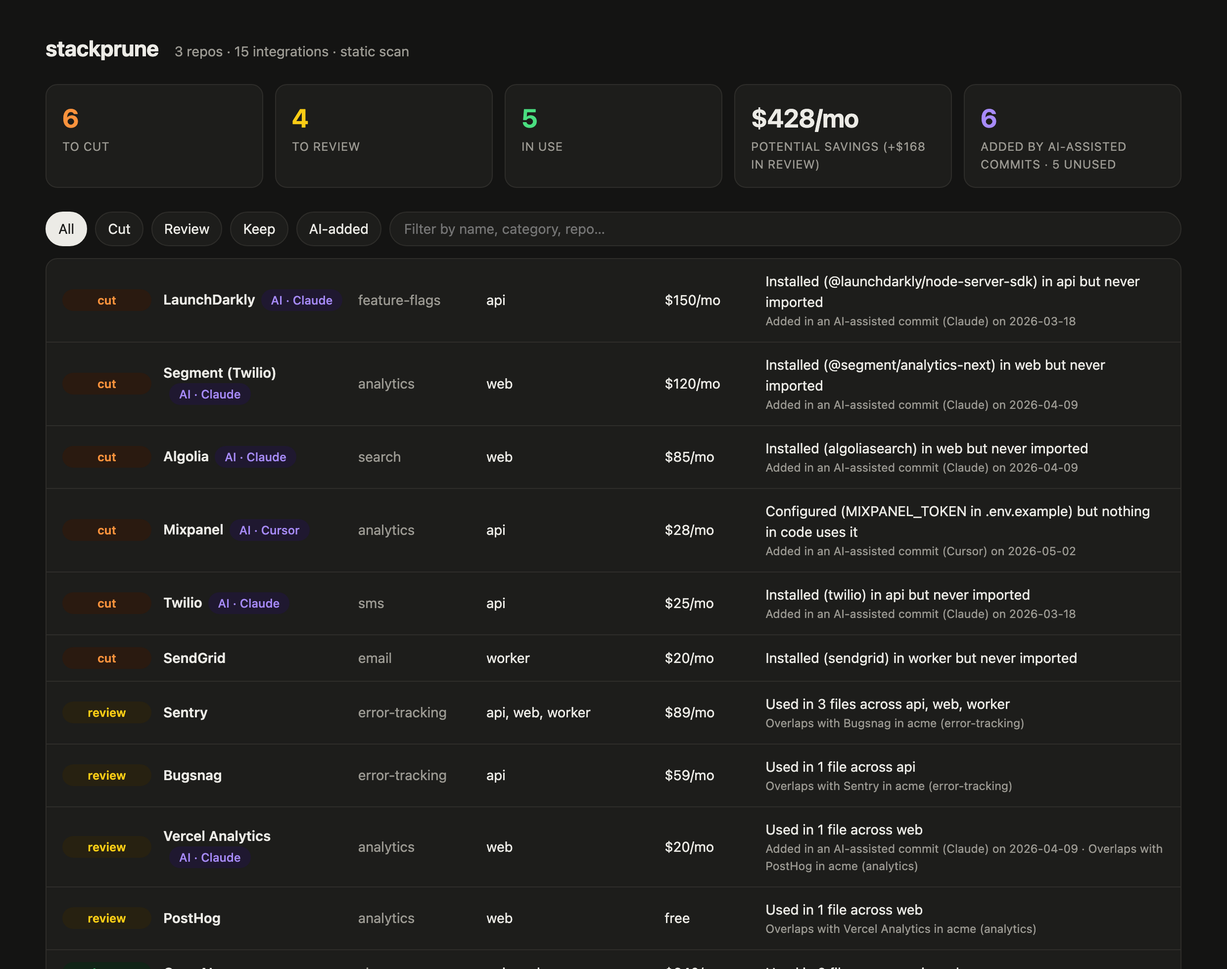
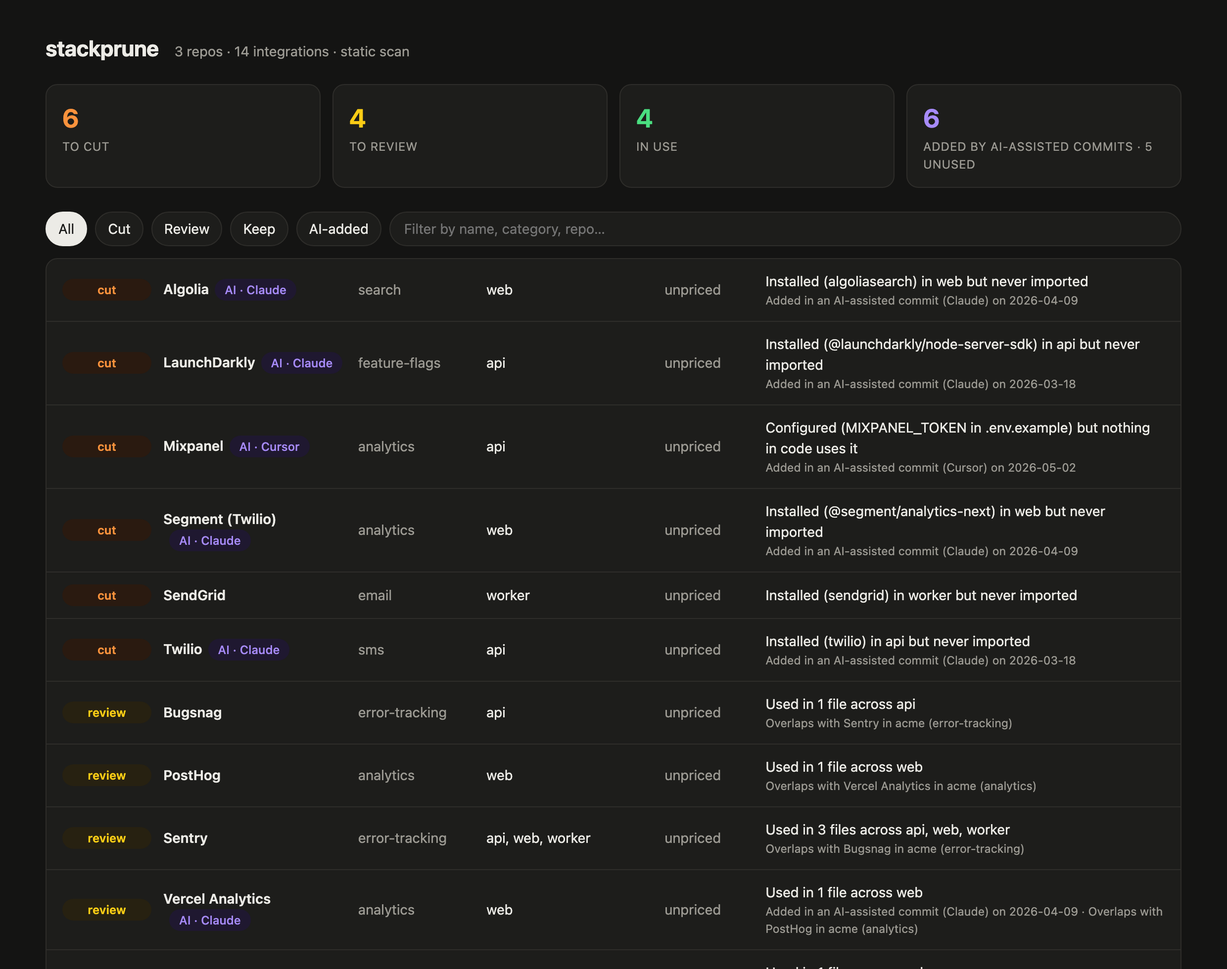
Add apps config, map/localization vendors, quieter overlap rules
- `apps:` in stackprune.yml names apps and their repos; running with no
  paths audits all of them and judges overlap per app
- Catalog: MapTiler, CARTO, OpenFreeMap, OSM Nominatim/tiles, OSRM demo,
  Photon, six localization platforms, MUI X licenses (221 vendors)
- Overlap only escalates paid vendors to review; reasons list overlaps
  per app

diff --git a/examples/demo-report.html b/examples/demo-report.html
@@ -66,7 +66,7 @@ footer a{color:inherit}
 <section id="unknown"></section>
 <footer>Generated by <a href="https://github.com/YlldritQ/stackprune">stackprune</a> · <span id="gen"></span></footer>
 </main>
-<script id="data" type="application/json">{"generatedAt":"2026-11-16T16:59:42.742Z","currency":"USD","targets":[{"name":"api","group":"acme","files":7},{"name":"web","group":"acme","files":6},{"name":"worker","group":"acme","files":2}],"summary":{"total":15,"byVerdict":{"cut":6,"review":4,"keep":5},"savingsCut":428,"savingsReview":168,"unpricedPaid":1,"aiIntroduced":6,"aiIntroducedUnused":5,"overlaps":4},"unknownHosts":[],"integrations":[{"id":"launchdarkly","name":"LaunchDarkly","category":"feature-flags","url":"https://launchdarkly.com/pricing/","paid":true,"status":"unused","verdict":"cut","reasons":["Installed (@launchdarkly/node-server-sdk) in api but never imported","Added in an AI-assisted commit (Claude) on 2026-03-18"],"cost":{"monthly":150},"codeFiles":0,"removalFiles":2,"ai":"Claude","introducedAt":"2026-03-18T22:14:00Z","lastTouchedAt":"2026-03-18T22:14:00Z","targets":["api"],"evidence":[{"t":"api","k":"env-declared","f":".env.example","l":6,"d":"LAUNCHDARKLY_SDK_KEY","dev":false},{"t":"api","k":"manifest","f":"package.json","l":5,"d":"@launchdarkly/node-server-sdk","dev":false}]},{"id":"segment","name":"Segment (Twilio)","category":"analytics","url":"https://segment.com/pricing/","paid":true,"status":"unused","verdict":"cut","reasons":["Installed (@segment/analytics-next) in web but never imported","Added in an AI-assisted commit (Claude) on 2026-04-09"],"cost":{"monthly":120},"codeFiles":0,"removalFiles":1,"ai":"Claude","introducedAt":"2026-04-09T23:05:00Z","lastTouchedAt":"2026-04-09T23:05:00Z","targets":["web"],"evidence":[{"t":"web","k":"manifest","f":"package.json","l":5,"d":"@segment/analytics-next","dev":false}]},{"id":"algolia","name":"Algolia","category":"search","url":"https://www.algolia.com/pricing/","paid":true,"status":"unused","verdict":"cut","reasons":["Installed (algoliasearch) in web but never imported","Added in an AI-assisted commit (Claude) on 2026-04-09"],"cost":{"monthly":85},"codeFiles":0,"removalFiles":2,"ai":"Claude","introducedAt":"2026-04-09T23:05:00Z","lastTouchedAt":"2026-04-09T23:05:00Z","targets":["web"],"evidence":[{"t":"web","k":"env-declared","f":".env.example","l":3,"d":"NEXT_PUBLIC_ALGOLIA_APP_ID","dev":false},{"t":"web","k":"env-declared","f":".env.example","l":4,"d":"NEXT_PUBLIC_ALGOLIA_SEARCH_KEY","dev":false},{"t":"web","k":"manifest","f":"package.json","l":5,"d":"algoliasearch","dev":false}]},{"id":"mixpanel","name":"Mixpanel","category":"analytics","url":"https://mixpanel.com/pricing/","paid":true,"status":"config-only","verdict":"cut","reasons":["Configured (MIXPANEL_TOKEN in .env.example) but nothing in code uses it","Added in an AI-assisted commit (Cursor) on 2026-05-02"],"cost":{"monthly":28},"codeFiles":0,"removalFiles":1,"ai":"Cursor","introducedAt":"2026-05-02T01:40:00Z","targets":["api"],"evidence":[{"t":"api","k":"env-declared","f":".env.example","l":7,"d":"MIXPANEL_TOKEN","dev":false}]},{"id":"twilio","name":"Twilio","category":"sms","url":"https://www.twilio.com/en-us/pricing","paid":true,"status":"unused","verdict":"cut","reasons":["Installed (twilio) in api but never imported","Added in an AI-assisted commit (Claude) on 2026-03-18"],"cost":{"monthly":25},"codeFiles":0,"removalFiles":2,"ai":"Claude","introducedAt":"2026-03-18T22:14:00Z","lastTouchedAt":"2026-03-18T22:14:00Z","targets":["api"],"evidence":[{"t":"api","k":"env-declared","f":".env.example","l":4,"d":"TWILIO_ACCOUNT_SID","dev":false},{"t":"api","k":"env-declared","f":".env.example","l":5,"d":"TWILIO_AUTH_TOKEN","dev":false},{"t":"api","k":"manifest","f":"package.json","l":5,"d":"twilio","dev":false}]},{"id":"sendgrid","name":"SendGrid","category":"email","url":"https://sendgrid.com/pricing/","paid":true,"status":"unused","verdict":"cut","reasons":["Installed (sendgrid) in worker but never imported"],"cost":{"monthly":20},"codeFiles":0,"removalFiles":1,"introducedAt":"2024-11-20T11:00:00Z","lastTouchedAt":"2024-11-20T11:00:00Z","targets":["worker"],"evidence":[{"t":"worker","k":"manifest","f":"requirements.txt","l":4,"d":"sendgrid","dev":false}]},{"id":"sentry","name":"Sentry","category":"error-tracking","url":"https://sentry.io/pricing/","paid":true,"status":"active","verdict":"review","reasons":["Used in 3 files across api, web, worker","Overlaps with Bugsnag in acme (error-tracking)"],"cost":{"monthly":89},"owner":"platform","codeFiles":3,"removalFiles":7,"introducedAt":"2024-11-20T11:00:00Z","lastTouchedAt":"2026-04-09T23:05:00Z","targets":["api","web","worker"],"evidence":[{"t":"api","k":"env-declared","f":".env.example","l":2,"d":"SENTRY_DSN","dev":false},{"t":"api","k":"manifest","f":"package.json","l":5,"d":"@sentry/node","dev":false},{"t":"api","k":"import","f":"src/errors.ts","l":1,"d":"@sentry/node","dev":false},{"t":"api","k":"env-referenced","f":"src/errors.ts","l":2,"d":"SENTRY_DSN","dev":false},{"t":"web","k":"import","f":"app/sentry.client.config.ts","l":1,"d":"@sentry/nextjs","dev":false},{"t":"web","k":"env-referenced","f":"app/sentry.client.config.ts","l":2,"d":"NEXT_PUBLIC_SENTRY_DSN","dev":false},{"t":"web","k":"manifest","f":"package.json","l":5,"d":"@sentry/nextjs","dev":false},{"t":"worker","k":"import","f":"jobs/reports.py","l":1,"d":"sentry_sdk","dev":false},{"t":"worker","k":"manifest","f":"requirements.txt","l":1,"d":"sentry-sdk","dev":false}]},{"id":"bugsnag","name":"Bugsnag","category":"error-tracking","url":"https://www.bugsnag.com/pricing","paid":true,"status":"active","verdict":"review","reasons":["Used in 1 file across api","Overlaps with Sentry in acme (error-tracking)"],"cost":{"monthly":59},"owner":"mobile","codeFiles":1,"removalFiles":2,"introducedAt":"2025-06-12T15:30:00Z","lastTouchedAt":"2026-03-18T22:14:00Z","targets":["api"],"evidence":[{"t":"api","k":"manifest","f":"package.json","l":5,"d":"@bugsnag/js","dev":false},{"t":"api","k":"import","f":"src/bugsnag.ts","l":1,"d":"@bugsnag/js","dev":false},{"t":"api","k":"env-referenced","f":"src/bugsnag.ts","l":2,"d":"BUGSNAG_API_KEY","dev":false}]},{"id":"vercel-analytics","name":"Vercel Analytics","category":"analytics","url":"https://vercel.com/docs/analytics/limits-and-pricing","paid":true,"status":"active","verdict":"review","reasons":["Used in 1 file across web","Added in an AI-assisted commit (Claude) on 2026-04-09","Overlaps with PostHog in acme (analytics)"],"cost":{"monthly":20},"codeFiles":1,"removalFiles":2,"ai":"Claude","introducedAt":"2026-04-09T23:05:00Z","lastTouchedAt":"2026-04-09T23:05:00Z","targets":["web"],"evidence":[{"t":"web","k":"import","f":"app/layout.tsx","l":1,"d":"@vercel/analytics/react","dev":false},{"t":"web","k":"manifest","f":"package.json","l":5,"d":"@vercel/analytics","dev":false}]},{"id":"posthog","name":"PostHog","category":"analytics","url":"https://posthog.com/pricing","paid":true,"status":"active","verdict":"review","reasons":["Used in 1 file across web","Overlaps with Vercel Analytics in acme (analytics)"],"cost":{"monthly":0},"owner":"growth","codeFiles":1,"removalFiles":3,"introducedAt":"2025-02-10T09:00:00Z","lastTouchedAt":"2026-04-09T23:05:00Z","targets":["web"],"evidence":[{"t":"web","k":"env-declared","f":".env.example","l":2,"d":"NEXT_PUBLIC_POSTHOG_KEY","dev":false},{"t":"web","k":"import","f":"app/analytics.tsx","l":1,"d":"posthog-js","dev":false},{"t":"web","k":"env-referenced","f":"app/analytics.tsx","l":2,"d":"NEXT_PUBLIC_POSTHOG_KEY","dev":false},{"t":"web","k":"host","f":"app/analytics.tsx","l":2,"d":"eu.i.posthog.com","dev":false},{"t":"web","k":"manifest","f":"package.json","l":5,"d":"posthog-js","dev":false}]},{"id":"openai","name":"OpenAI","category":"ai","url":"https://openai.com/api/pricing/","paid":true,"status":"active","verdict":"keep","reasons":["Used in 2 files across api, worker"],"cost":{"monthly":640},"owner":"ai-team","codeFiles":2,"removalFiles":5,"introducedAt":"2024-11-20T11:00:00Z","lastTouchedAt":"2026-03-18T22:14:00Z","targets":["api","worker"],"evidence":[{"t":"api","k":"env-declared","f":".env.example","l":3,"d":"OPENAI_API_KEY","dev":false},{"t":"api","k":"manifest","f":"package.json","l":5,"d":"openai","dev":false},{"t":"api","k":"import","f":"src/summaries.ts","l":1,"d":"openai","dev":false},{"t":"worker","k":"import","f":"jobs/reports.py","l":2,"d":"openai","dev":false},{"t":"worker","k":"import","f":"jobs/reports.py","l":2,"d":"openai.OpenAI","dev":false},{"t":"worker","k":"manifest","f":"requirements.txt","l":2,"d":"openai","dev":false}]},{"id":"stripe","name":"Stripe","category":"payments","url":"https://stripe.com/pricing","paid":true,"status":"active","verdict":"keep","reasons":["Used in 2 files across api, web"],"cost":{"monthly":420},"owner":"payments","purpose":"Checkout and subscriptions","codeFiles":2,"removalFiles":6,"introducedAt":"2025-02-03T10:00:00Z","lastTouchedAt":"2026-04-09T23:05:00Z","targets":["api","web"],"evidence":[{"t":"api","k":"env-declared","f":".env.example","l":1,"d":"STRIPE_SECRET_KEY","dev":false},{"t":"api","k":"manifest","f":"package.json","l":5,"d":"stripe","dev":false},{"t":"api","k":"import","f":"src/billing.ts","l":1,"d":"stripe","dev":false},{"t":"api","k":"env-referenced","f":"src/billing.ts","l":2,"d":"STRIPE_SECRET_KEY","dev":false},{"t":"web","k":"env-declared","f":".env.example","l":1,"d":"NEXT_PUBLIC_STRIPE_PUBLISHABLE_KEY","dev":false},{"t":"web","k":"import","f":"app/checkout.tsx","l":1,"d":"@stripe/stripe-js","dev":false},{"t":"web","k":"env-referenced","f":"app/checkout.tsx","l":2,"d":"NEXT_PUBLIC_STRIPE_PUBLISHABLE_KEY","dev":false},{"t":"web","k":"manifest","f":"package.json","l":5,"d":"@stripe/stripe-js","dev":false}]},{"id":"datadog","name":"Datadog","category":"apm","url":"https://www.datadoghq.com/pricing/","paid":true,"status":"active","verdict":"keep","reasons":["Used in 1 file across api"],"cost":{"monthly":310},"owner":"platform","codeFiles":1,"removalFiles":1,"introducedAt":"2025-02-03T10:00:00Z","lastTouchedAt":"2026-03-18T22:14:00Z","targets":["api"],"evidence":[{"t":"api","k":"manifest","f":"package.json","l":5,"d":"dd-trace","dev":false},{"t":"api","k":"import","f":"package.json","d":"dd-trace (script)","dev":false}]},{"id":"aws-s3","name":"AWS S3","category":"storage","url":"https://aws.amazon.com/s3/pricing/","paid":true,"status":"active","verdict":"keep","reasons":["Used in 1 file across worker","Code using it untouched for 726 days"],"cost":{"monthly":14},"owner":"platform","codeFiles":1,"removalFiles":1,"introducedAt":"2024-11-20T11:00:00Z","lastTouchedAt":"2024-11-20T11:00:00Z","targets":["worker"],"evidence":[{"t":"worker","k":"import","f":"jobs/reports.py","l":6,"d":"boto3.client(\"s3\")","dev":false}]},{"id":"parcelpartner","name":"ParcelPartner","category":"other","paid":true,"status":"active","verdict":"keep","reasons":["Used in 1 file across api","Code using it untouched for 651 days"],"codeFiles":1,"removalFiles":1,"introducedAt":"2025-02-03T10:00:00Z","lastTouchedAt":"2025-02-03T10:00:00Z","targets":["api"],"evidence":[{"t":"api","k":"host","f":"src/shipping.ts","l":1,"d":"api.parcelpartner.io","dev":false}]}]}</script>
+<script id="data" type="application/json">{"generatedAt":"2026-11-16T17:03:27.066Z","currency":"USD","targets":[{"name":"api","group":"acme","files":7},{"name":"web","group":"acme","files":6},{"name":"worker","group":"acme","files":2}],"summary":{"total":14,"byVerdict":{"cut":6,"review":4,"keep":4},"savingsCut":0,"savingsReview":0,"unpricedPaid":14,"aiIntroduced":6,"aiIntroducedUnused":5,"overlaps":4},"unknownHosts":[{"domain":"parcelpartner.io","hosts":["api.parcelpartner.io"],"files":1,"targets":["api"]}],"integrations":[{"id":"algolia","name":"Algolia","category":"search","url":"https://www.algolia.com/pricing/","paid":true,"status":"unused","verdict":"cut","reasons":["Installed (algoliasearch) in web but never imported","Added in an AI-assisted commit (Claude) on 2026-04-09"],"codeFiles":0,"removalFiles":2,"ai":"Claude","introducedAt":"2026-04-09T23:05:00Z","lastTouchedAt":"2026-04-09T23:05:00Z","targets":["web"],"evidence":[{"t":"web","k":"env-declared","f":".env.example","l":3,"d":"NEXT_PUBLIC_ALGOLIA_APP_ID","dev":false},{"t":"web","k":"env-declared","f":".env.example","l":4,"d":"NEXT_PUBLIC_ALGOLIA_SEARCH_KEY","dev":false},{"t":"web","k":"manifest","f":"package.json","l":5,"d":"algoliasearch","dev":false}]},{"id":"launchdarkly","name":"LaunchDarkly","category":"feature-flags","url":"https://launchdarkly.com/pricing/","paid":true,"status":"unused","verdict":"cut","reasons":["Installed (@launchdarkly/node-server-sdk) in api but never imported","Added in an AI-assisted commit (Claude) on 2026-03-18"],"codeFiles":0,"removalFiles":2,"ai":"Claude","introducedAt":"2026-03-18T22:14:00Z","lastTouchedAt":"2026-03-18T22:14:00Z","targets":["api"],"evidence":[{"t":"api","k":"env-declared","f":".env.example","l":6,"d":"LAUNCHDARKLY_SDK_KEY","dev":false},{"t":"api","k":"manifest","f":"package.json","l":5,"d":"@launchdarkly/node-server-sdk","dev":false}]},{"id":"mixpanel","name":"Mixpanel","category":"analytics","url":"https://mixpanel.com/pricing/","paid":true,"status":"config-only","verdict":"cut","reasons":["Configured (MIXPANEL_TOKEN in .env.example) but nothing in code uses it","Added in an AI-assisted commit (Cursor) on 2026-05-02"],"codeFiles":0,"removalFiles":1,"ai":"Cursor","introducedAt":"2026-05-02T01:40:00Z","targets":["api"],"evidence":[{"t":"api","k":"env-declared","f":".env.example","l":7,"d":"MIXPANEL_TOKEN","dev":false}]},{"id":"segment","name":"Segment (Twilio)","category":"analytics","url":"https://segment.com/pricing/","paid":true,"status":"unused","verdict":"cut","reasons":["Installed (@segment/analytics-next) in web but never imported","Added in an AI-assisted commit (Claude) on 2026-04-09"],"codeFiles":0,"removalFiles":1,"ai":"Claude","introducedAt":"2026-04-09T23:05:00Z","lastTouchedAt":"2026-04-09T23:05:00Z","targets":["web"],"evidence":[{"t":"web","k":"manifest","f":"package.json","l":5,"d":"@segment/analytics-next","dev":false}]},{"id":"sendgrid","name":"SendGrid","category":"email","url":"https://sendgrid.com/pricing/","paid":true,"status":"unused","verdict":"cut","reasons":["Installed (sendgrid) in worker but never imported"],"codeFiles":0,"removalFiles":1,"introducedAt":"2024-11-20T11:00:00Z","lastTouchedAt":"2024-11-20T11:00:00Z","targets":["worker"],"evidence":[{"t":"worker","k":"manifest","f":"requirements.txt","l":4,"d":"sendgrid","dev":false}]},{"id":"twilio","name":"Twilio","category":"sms","url":"https://www.twilio.com/en-us/pricing","paid":true,"status":"unused","verdict":"cut","reasons":["Installed (twilio) in api but never imported","Added in an AI-assisted commit (Claude) on 2026-03-18"],"codeFiles":0,"removalFiles":2,"ai":"Claude","introducedAt":"2026-03-18T22:14:00Z","lastTouchedAt":"2026-03-18T22:14:00Z","targets":["api"],"evidence":[{"t":"api","k":"env-declared","f":".env.example","l":4,"d":"TWILIO_ACCOUNT_SID","dev":false},{"t":"api","k":"env-declared","f":".env.example","l":5,"d":"TWILIO_AUTH_TOKEN","dev":false},{"t":"api","k":"manifest","f":"package.json","l":5,"d":"twilio","dev":false}]},{"id":"bugsnag","name":"Bugsnag","category":"error-tracking","url":"https://www.bugsnag.com/pricing","paid":true,"status":"active","verdict":"review","reasons":["Used in 1 file across api","Overlaps with Sentry in acme (error-tracking)"],"codeFiles":1,"removalFiles":2,"introducedAt":"2025-06-12T15:30:00Z","lastTouchedAt":"2026-03-18T22:14:00Z","targets":["api"],"evidence":[{"t":"api","k":"manifest","f":"package.json","l":5,"d":"@bugsnag/js","dev":false},{"t":"api","k":"import","f":"src/bugsnag.ts","l":1,"d":"@bugsnag/js","dev":false},{"t":"api","k":"env-referenced","f":"src/bugsnag.ts","l":2,"d":"BUGSNAG_API_KEY","dev":false}]},{"id":"posthog","name":"PostHog","category":"analytics","url":"https://posthog.com/pricing","paid":true,"status":"active","verdict":"review","reasons":["Used in 1 file across web","Overlaps with Vercel Analytics in acme (analytics)"],"codeFiles":1,"removalFiles":3,"introducedAt":"2025-02-10T09:00:00Z","lastTouchedAt":"2026-04-09T23:05:00Z","targets":["web"],"evidence":[{"t":"web","k":"env-declared","f":".env.example","l":2,"d":"NEXT_PUBLIC_POSTHOG_KEY","dev":false},{"t":"web","k":"import","f":"app/analytics.tsx","l":1,"d":"posthog-js","dev":false},{"t":"web","k":"env-referenced","f":"app/analytics.tsx","l":2,"d":"NEXT_PUBLIC_POSTHOG_KEY","dev":false},{"t":"web","k":"host","f":"app/analytics.tsx","l":2,"d":"eu.i.posthog.com","dev":false},{"t":"web","k":"manifest","f":"package.json","l":5,"d":"posthog-js","dev":false}]},{"id":"sentry","name":"Sentry","category":"error-tracking","url":"https://sentry.io/pricing/","paid":true,"status":"active","verdict":"review","reasons":["Used in 3 files across api, web, worker","Overlaps with Bugsnag in acme (error-tracking)"],"codeFiles":3,"removalFiles":7,"introducedAt":"2024-11-20T11:00:00Z","lastTouchedAt":"2026-04-09T23:05:00Z","targets":["api","web","worker"],"evidence":[{"t":"api","k":"env-declared","f":".env.example","l":2,"d":"SENTRY_DSN","dev":false},{"t":"api","k":"manifest","f":"package.json","l":5,"d":"@sentry/node","dev":false},{"t":"api","k":"import","f":"src/errors.ts","l":1,"d":"@sentry/node","dev":false},{"t":"api","k":"env-referenced","f":"src/errors.ts","l":2,"d":"SENTRY_DSN","dev":false},{"t":"web","k":"import","f":"app/sentry.client.config.ts","l":1,"d":"@sentry/nextjs","dev":false},{"t":"web","k":"env-referenced","f":"app/sentry.client.config.ts","l":2,"d":"NEXT_PUBLIC_SENTRY_DSN","dev":false},{"t":"web","k":"manifest","f":"package.json","l":5,"d":"@sentry/nextjs","dev":false},{"t":"worker","k":"import","f":"jobs/reports.py","l":1,"d":"sentry_sdk","dev":false},{"t":"worker","k":"manifest","f":"requirements.txt","l":1,"d":"sentry-sdk","dev":false}]},{"id":"vercel-analytics","name":"Vercel Analytics","category":"analytics","url":"https://vercel.com/docs/analytics/limits-and-pricing","paid":true,"status":"active","verdict":"review","reasons":["Used in 1 file across web","Added in an AI-assisted commit (Claude) on 2026-04-09","Overlaps with PostHog in acme (analytics)"],"codeFiles":1,"removalFiles":2,"ai":"Claude","introducedAt":"2026-04-09T23:05:00Z","lastTouchedAt":"2026-04-09T23:05:00Z","targets":["web"],"evidence":[{"t":"web","k":"import","f":"app/layout.tsx","l":1,"d":"@vercel/analytics/react","dev":false},{"t":"web","k":"manifest","f":"package.json","l":5,"d":"@vercel/analytics","dev":false}]},{"id":"aws-s3","name":"AWS S3","category":"storage","url":"https://aws.amazon.com/s3/pricing/","paid":true,"status":"active","verdict":"keep","reasons":["Used in 1 file across worker","Code using it untouched for 726 days"],"codeFiles":1,"removalFiles":1,"introducedAt":"2024-11-20T11:00:00Z","lastTouchedAt":"2024-11-20T11:00:00Z","targets":["worker"],"evidence":[{"t":"worker","k":"import","f":"jobs/reports.py","l":6,"d":"boto3.client(\"s3\")","dev":false}]},{"id":"datadog","name":"Datadog","category":"apm","url":"https://www.datadoghq.com/pricing/","paid":true,"status":"active","verdict":"keep","reasons":["Used in 1 file across api"],"codeFiles":1,"removalFiles":1,"introducedAt":"2025-02-03T10:00:00Z","lastTouchedAt":"2026-03-18T22:14:00Z","targets":["api"],"evidence":[{"t":"api","k":"manifest","f":"package.json","l":5,"d":"dd-trace","dev":false},{"t":"api","k":"import","f":"package.json","d":"dd-trace (script)","dev":false}]},{"id":"openai","name":"OpenAI","category":"ai","url":"https://openai.com/api/pricing/","paid":true,"status":"active","verdict":"keep","reasons":["Used in 2 files across api, worker"],"codeFiles":2,"removalFiles":5,"introducedAt":"2024-11-20T11:00:00Z","lastTouchedAt":"2026-03-18T22:14:00Z","targets":["api","worker"],"evidence":[{"t":"api","k":"env-declared","f":".env.example","l":3,"d":"OPENAI_API_KEY","dev":false},{"t":"api","k":"manifest","f":"package.json","l":5,"d":"openai","dev":false},{"t":"api","k":"import","f":"src/summaries.ts","l":1,"d":"openai","dev":false},{"t":"worker","k":"import","f":"jobs/reports.py","l":2,"d":"openai","dev":false},{"t":"worker","k":"import","f":"jobs/reports.py","l":2,"d":"openai.OpenAI","dev":false},{"t":"worker","k":"manifest","f":"requirements.txt","l":2,"d":"openai","dev":false}]},{"id":"stripe","name":"Stripe","category":"payments","url":"https://stripe.com/pricing","paid":true,"status":"active","verdict":"keep","reasons":["Used in 2 files across api, web"],"codeFiles":2,"removalFiles":6,"introducedAt":"2025-02-03T10:00:00Z","lastTouchedAt":"2026-04-09T23:05:00Z","targets":["api","web"],"evidence":[{"t":"api","k":"env-declared","f":".env.example","l":1,"d":"STRIPE_SECRET_KEY","dev":false},{"t":"api","k":"manifest","f":"package.json","l":5,"d":"stripe","dev":false},{"t":"api","k":"import","f":"src/billing.ts","l":1,"d":"stripe","dev":false},{"t":"api","k":"env-referenced","f":"src/billing.ts","l":2,"d":"STRIPE_SECRET_KEY","dev":false},{"t":"web","k":"env-declared","f":".env.example","l":1,"d":"NEXT_PUBLIC_STRIPE_PUBLISHABLE_KEY","dev":false},{"t":"web","k":"import","f":"app/checkout.tsx","l":1,"d":"@stripe/stripe-js","dev":false},{"t":"web","k":"env-referenced","f":"app/checkout.tsx","l":2,"d":"NEXT_PUBLIC_STRIPE_PUBLISHABLE_KEY","dev":false},{"t":"web","k":"manifest","f":"package.json","l":5,"d":"@stripe/stripe-js","dev":false}]}]}</script>
 <script>
 (function(){
 var D=JSON.parse(document.getElementById('data').textContent);

diff --git a/src/catalog/vendors.ts b/src/catalog/vendors.ts
@@ -711,6 +711,42 @@ export const VENDORS: Vendor[] = [
     hosts: ['api.what3words.com'],
   },
 
+  {
+    id: 'maptiler', name: 'MapTiler', category: 'maps', paid: true, url: 'https://www.maptiler.com/cloud/pricing/',
+    packages: { npm: ['@maptiler/*'], pypi: ['maptiler'] },
+    env: ['MAPTILER_*', 'NEXT_PUBLIC_MAPTILER_*', 'VITE_MAPTILER_*', 'REACT_APP_MAPTILER_*', 'EXPO_PUBLIC_MAPTILER_*'],
+    hosts: ['api.maptiler.com', 'cloud.maptiler.com'],
+  },
+  {
+    id: 'carto-basemaps', name: 'CARTO Basemaps', category: 'maps', paid: false, url: 'https://carto.com/basemaps',
+    packages: { npm: ['@carto/*'] },
+    env: ['CARTO_*'],
+    hosts: ['*.basemaps.cartocdn.com', 'basemaps.cartocdn.com', 'api.carto.com'],
+  },
+  {
+    id: 'openfreemap', name: 'OpenFreeMap', category: 'maps', paid: false, url: 'https://openfreemap.org',
+    hosts: ['tiles.openfreemap.org'],
+  },
+  {
+    id: 'osm-nominatim', name: 'OpenStreetMap Nominatim', category: 'maps', paid: false, url: 'https://operations.osmfoundation.org/policies/nominatim/',
+    env: ['NOMINATIM_*'],
+    hosts: ['nominatim.openstreetmap.org'],
+  },
+  {
+    id: 'osm-tiles', name: 'OpenStreetMap tile servers', category: 'maps', paid: false, url: 'https://operations.osmfoundation.org/policies/tiles/',
+    hosts: ['tile.openstreetmap.org', '*.tile.openstreetmap.org', 'tile.openstreetmap.de'],
+  },
+  {
+    id: 'osrm-demo', name: 'OSRM demo server', category: 'maps', paid: false, url: 'https://github.com/Project-OSRM/osrm-backend/wiki/Demo-server',
+    env: ['OSRM_*'],
+    hosts: ['router.project-osrm.org', 'routing.openstreetmap.de'],
+  },
+  {
+    id: 'photon', name: 'Photon geocoder (komoot)', category: 'maps', paid: false, url: 'https://photon.komoot.io',
+    env: ['PHOTON_*'],
+    hosts: ['photon.komoot.io'],
+  },
+
   // ── Search ──
   {
     id: 'algolia', name: 'Algolia', category: 'search', paid: true, url: 'https://www.algolia.com/pricing/',
@@ -1256,6 +1292,52 @@ export const VENDORS: Vendor[] = [
     modules: { python: ['digitalocean', 'pydo'] },
     env: ['DIGITALOCEAN_*', 'DO_API_TOKEN', 'DO_SPACES_*', 'SPACES_KEY', 'SPACES_SECRET'],
     hosts: ['api.digitalocean.com', '*.digitaloceanspaces.com'],
+  },
+
+  // ── Localization ──
+  {
+    id: 'lokalise', name: 'Lokalise', category: 'localization', paid: true, url: 'https://lokalise.com/pricing',
+    packages: { npm: ['@lokalise/*'], pypi: ['python-lokalise-api'], composer: ['bodrovis/lokalise-php'] },
+    modules: { python: ['lokalise'] },
+    env: ['LOKALISE_*'],
+    hosts: ['api.lokalise.com', 'ota.lokalise.com'],
+  },
+  {
+    id: 'crowdin', name: 'Crowdin', category: 'localization', paid: true, url: 'https://crowdin.com/pricing',
+    packages: { npm: ['@crowdin/*'], pypi: ['crowdin-api-client'] },
+    modules: { python: ['crowdin_api'] },
+    env: ['CROWDIN_*'],
+    hosts: ['api.crowdin.com', '*.api.crowdin.com', 'distributions.crowdin.net'],
+  },
+  {
+    id: 'phrase', name: 'Phrase', category: 'localization', paid: true, url: 'https://phrase.com/pricing/',
+    packages: { npm: ['phrase-js'], rubygems: ['phrase'] },
+    env: ['PHRASE_*', 'PHRASEAPP_*'],
+    hosts: ['api.phrase.com', 'api.us.app.phrase.com', 'ota.eu.phrase.com'],
+  },
+  {
+    id: 'tolgee', name: 'Tolgee', category: 'localization', paid: true, url: 'https://tolgee.io/pricing',
+    packages: { npm: ['@tolgee/*'] },
+    env: ['TOLGEE_*', 'VITE_APP_TOLGEE_*', 'NEXT_PUBLIC_TOLGEE_*'],
+    hosts: ['app.tolgee.io', 'cdn.tolg.ee'],
+  },
+  {
+    id: 'locize', name: 'Locize', category: 'localization', paid: true, url: 'https://locize.com/pricing.html',
+    packages: { npm: ['locize', 'i18next-locize-backend', 'locize-lastused', 'locize-cli'] },
+    env: ['LOCIZE_*', 'NEXT_PUBLIC_LOCIZE_*', 'VITE_LOCIZE_*', 'REACT_APP_LOCIZE_*'],
+    hosts: ['api.locize.app', 'api.locize.io'],
+  },
+  {
+    id: 'simplelocalize', name: 'SimpleLocalize', category: 'localization', paid: true, url: 'https://simplelocalize.io/pricing/',
+    env: ['SIMPLELOCALIZE_*', 'SIMPLE_LOCALIZE_*', 'REACT_APP_SIMPLE_LOCALIZE_*', 'NEXT_PUBLIC_SIMPLELOCALIZE_*', 'VITE_SIMPLELOCALIZE_*'],
+    hosts: ['api.simplelocalize.io', 'cdn.simplelocalize.io'],
+  },
+
+  // ── Paid component licenses ──
+  {
+    id: 'mui-x', name: 'MUI X (Pro / Premium)', category: 'other', paid: true, url: 'https://mui.com/pricing/',
+    packages: { npm: ['@mui/x-data-grid-pro', '@mui/x-data-grid-premium', '@mui/x-date-pickers-pro', '@mui/x-tree-view-pro', '@mui/x-charts-pro', '@mui/x-license', '@mui/x-license-pro'] },
+    env: ['MUI_X_LICENSE*', 'MUIX_LICENSE*', 'MUI_LICENSE*', 'REACT_APP_MUIX_LICENSE*', 'NEXT_PUBLIC_MUI_X_LICENSE*', 'NEXT_PUBLIC_MUI_LICENSE*', 'VITE_MUI_X_LICENSE*', 'VITE_MUI_LICENSE*'],
   },
 
   // ── Other APIs & services ──

diff --git a/src/index.ts b/src/index.ts
@@ -1,3 +1,4 @@
+import { dirname, resolve } from 'node:path';
 import { analyze } from './analyze/verdict.js';
 import { buildCatalog, type Catalog } from './catalog/index.js';
 import { findConfig, loadConfig } from './config.js';
@@ -33,11 +34,13 @@ async function pool<T>(items: T[], size: number, fn: (item: T) => Promise<void>)
 }
 
 export async function scan(opts: ScanOptions = {}): Promise<ScanResult & { catalog: Catalog; scans: TargetScan[] }> {
-  const paths = opts.paths?.length ? opts.paths : ['.'];
+  const explicitPaths = !!opts.paths?.length;
+  const paths = explicitPaths ? opts.paths! : ['.'];
   const configPath = opts.configPath ?? (opts.config ? undefined : findConfig(['.', ...paths]));
   const config = opts.config ?? loadConfig(configPath);
   const catalog = buildCatalog(config.vendors, config.ignore);
-  const targets = opts.targets ?? resolveTargets(paths);
+  const targets =
+    opts.targets ?? (!explicitPaths && config.apps ? appTargets(config.apps, configPath ? dirname(resolve(configPath)) : process.cwd()) : resolveTargets(paths));
 
   const scans = targets.map((t) => scanTarget(t, catalog, { exclude: config.exclude }));
   const gitFlags = new Map<string, boolean>();
@@ -69,6 +72,24 @@ export async function scan(opts: ScanOptions = {}): Promise<ScanResult & { catal
     catalog,
     scans,
   };
+}
+
+/** Targets from `apps:` in config: every repo is grouped under its app's name. */
+function appTargets(apps: Record<string, string[]>, baseDir: string): Target[] {
+  const out: Target[] = [];
+  const seen = new Set<string>();
+  for (const [app, paths] of Object.entries(apps)) {
+    for (const t of resolveTargets(paths.map((p) => resolve(baseDir, p)))) {
+      if (seen.has(t.root)) continue;
+      seen.add(t.root);
+      out.push({ ...t, group: app });
+    }
+  }
+  // Same repo name in two apps → prefix with the app.
+  const counts = new Map<string, number>();
+  for (const t of out) counts.set(t.name, (counts.get(t.name) ?? 0) + 1);
+  for (const t of out) if ((counts.get(t.name) ?? 0) > 1 && !t.name.includes('/')) t.name = `${t.group}/${t.name}`;
+  return out;
 }
 
 function collectUnknownHosts(scans: TargetScan[], usage: UsageData | undefined, ignore: string[] = []): UnknownHost[] {

diff --git a/src/analyze/verdict.ts b/src/analyze/verdict.ts
@@ -19,6 +19,7 @@ export const OVERLAP_CATEGORIES = new Set<Category>([
   'support',
   'crm',
   'cms',
+  'localization',
 ]);
 
 const DAY = 86_400_000;
@@ -192,10 +193,15 @@ export function analyze({ scans, catalog, config, usage, now = new Date() }: Ana
       (shared.length ? same : elsewhere).push(o);
     }
     if (same.length) {
-      const apps = [...mine].filter((a) => same.some((o) => appsOf(o).has(a)));
       i.overlapsWith = same.map((o) => o.vendor.id);
-      i.reasons.push(`Overlaps with ${list(same.map((o) => o.vendor.name))} in ${list(apps)} (${i.vendor.category})`);
-      if (i.verdict === 'keep') i.verdict = 'review';
+      const perApp = [...mine]
+        .map((a) => ({ app: a, others: same.filter((o) => appsOf(o).has(a)).map((o) => o.vendor.name) }))
+        .filter((x) => x.others.length)
+        .map((x) => `${list(x.others)} in ${x.app}`);
+      i.reasons.push(`Overlaps with ${perApp.join('; ')} (${i.vendor.category})`);
+      // Only something you pay for is worth a review; a free overlap is just a note.
+      const costsMoney = i.cost ? i.cost.monthly > 0 : !!i.vendor.paid;
+      if (i.verdict === 'keep' && costsMoney) i.verdict = 'review';
     } else if (elsewhere.length) {
       i.reasons.push(`Other apps use ${list(elsewhere.map((o) => o.vendor.name))} for ${i.vendor.category} — consolidation candidate`);
     }

diff --git a/test/scan.test.ts b/test/scan.test.ts
@@ -144,6 +144,23 @@ describe('scan', () => {
     expect(r.warnings.join('\n')).toMatch(/package\.json: could not parse/);
   });
 
+  it('scans the apps listed in config, grouped by app', async () => {
+    const parent = tempDir();
+    writeFiles(parent, {
+      'shop-api/package.json': JSON.stringify({ dependencies: { '@sentry/node': '1' } }),
+      'shop-api/index.js': "require('@sentry/node')\n",
+      'shop-web/package.json': JSON.stringify({ dependencies: { '@bugsnag/js': '1' } }),
+      'shop-web/index.js': "require('@bugsnag/js')\n",
+      'blog/package.json': JSON.stringify({ dependencies: { '@sentry/node': '1' } }),
+      'blog/index.js': "require('@sentry/node')\n",
+      'audit/stackprune.yml': 'apps:\n  shop: [../shop-api, ../shop-web]\n  blog: [../blog]\n',
+    });
+    const r = await scan({ configPath: join(parent, 'audit/stackprune.yml'), git: false });
+    expect(r.targets.map((t) => `${t.group}:${t.name}`)).toEqual(['shop:shop-api', 'shop:shop-web', 'blog:blog']);
+    // Sentry and Bugsnag overlap inside "shop" (different repos, same app)
+    expect(find(r.integrations, 'bugsnag').overlapsWith).toEqual(['sentry']);
+  });
+
   it('expands a folder of repos into one target per repo', async () => {
     const parent = tempDir();
     for (const name of ['api', 'web']) {

diff --git a/src/types.ts b/src/types.ts
@@ -23,6 +23,7 @@ export type Category =
   | 'error-tracking'
   | 'feature-flags'
   | 'hosting'
+  | 'localization'
   | 'logging'
   | 'maps'
   | 'marketing'
@@ -145,6 +146,12 @@ export interface IntegrationConfig {
 }
 
 export interface Config {
+  /**
+   * Named apps and the repos/folders that make them up, relative to the config file.
+   * Used when no paths are passed on the command line. A folder of repos is expanded.
+   *   apps: { shop: [../shop-api, ../shop-web], backoffice: [../admin] }
+   */
+  apps?: Record<string, string[]>;
   /** Extra or overriding vendor definitions (in-house APIs, niche vendors, partners). */
   vendors?: Vendor[];
   /** Per-vendor metadata keyed by vendor id. */

diff --git a/examples/demo-report.md b/examples/demo-report.md
@@ -1,6 +1,6 @@
 # stackprune report
 
-3 repos · **15 integrations** · 6 to cut · 4 to review · 5 to keep · potential savings **$428/mo** (+$168/mo under review)
+3 repos · **14 integrations** · 6 to cut · 4 to review · 4 to keep
 
 > 6 integrations were added in AI-assisted commits, and 5 of those are unused.
 
@@ -8,30 +8,37 @@
 
 | Integration | Category | Where | Cost | Why | Evidence | Owner |
 |---|---|---|---|---|---|---|
-| **LaunchDarkly** | feature-flags | api | $150/mo | Installed (@launchdarkly/node-server-sdk) in api but never imported · Added in an AI-assisted commit (Claude) on 2026-03-18 | 1 env, 1 dep | — |
-| **Segment (Twilio)** | analytics | web | $120/mo | Installed (@segment/analytics-next) in web but never imported · Added in an AI-assisted commit (Claude) on 2026-04-09 | 1 dep | — |
-| **Algolia** | search | web | $85/mo | Installed (algoliasearch) in web but never imported · Added in an AI-assisted commit (Claude) on 2026-04-09 | 2 envs, 1 dep | — |
-| **Mixpanel** | analytics | api | $28/mo | Configured (MIXPANEL_TOKEN in .env.example) but nothing in code uses it · Added in an AI-assisted commit (Cursor) on 2026-05-02 | 1 env | — |
-| **Twilio** | sms | api | $25/mo | Installed (twilio) in api but never imported · Added in an AI-assisted commit (Claude) on 2026-03-18 | 2 envs, 1 dep | — |
-| **SendGrid** | email | worker | $20/mo | Installed (sendgrid) in worker but never imported | 1 dep | — |
+| **Algolia** | search | web | ? | Installed (algoliasearch) in web but never imported · Added in an AI-assisted commit (Claude) on 2026-04-09 | 2 envs, 1 dep | — |
+| **LaunchDarkly** | feature-flags | api | ? | Installed (@launchdarkly/node-server-sdk) in api but never imported · Added in an AI-assisted commit (Claude) on 2026-03-18 | 1 env, 1 dep | — |
+| **Mixpanel** | analytics | api | ? | Configured (MIXPANEL_TOKEN in .env.example) but nothing in code uses it · Added in an AI-assisted commit (Cursor) on 2026-05-02 | 1 env | — |
+| **Segment (Twilio)** | analytics | web | ? | Installed (@segment/analytics-next) in web but never imported · Added in an AI-assisted commit (Claude) on 2026-04-09 | 1 dep | — |
+| **SendGrid** | email | worker | ? | Installed (sendgrid) in worker but never imported | 1 dep | — |
+| **Twilio** | sms | api | ? | Installed (twilio) in api but never imported · Added in an AI-assisted commit (Claude) on 2026-03-18 | 2 envs, 1 dep | — |
 
 ## 🔍 Review — used, but something looks off (4)
 
 | Integration | Category | Where | Cost | Why | Evidence | Owner |
 |---|---|---|---|---|---|---|
-| **Sentry** | error-tracking | api, web, worker | $89/mo | Used in 3 files across api, web, worker · Overlaps with Bugsnag in acme (error-tracking) | 1 env, 3 deps, 3 imports, 2 env refs | platform |
-| **Bugsnag** | error-tracking | api | $59/mo | Used in 1 file across api · Overlaps with Sentry in acme (error-tracking) | 1 dep, 1 import, 1 env ref | mobile |
-| **Vercel Analytics** | analytics | web | $20/mo | Used in 1 file across web · Added in an AI-assisted commit (Claude) on 2026-04-09 · Overlaps with PostHog in acme (analytics) | 1 import, 1 dep | — |
-| **PostHog** | analytics | web | free | Used in 1 file across web · Overlaps with Vercel Analytics in acme (analytics) | 1 env, 1 import, 1 env ref, 1 host, 1 dep | growth |
+| **Bugsnag** | error-tracking | api | ? | Used in 1 file across api · Overlaps with Sentry in acme (error-tracking) | 1 dep, 1 import, 1 env ref | — |
+| **PostHog** | analytics | web | ? | Used in 1 file across web · Overlaps with Vercel Analytics in acme (analytics) | 1 env, 1 import, 1 env ref, 1 host, 1 dep | — |
+| **Sentry** | error-tracking | api, web, worker | ? | Used in 3 files across api, web, worker · Overlaps with Bugsnag in acme (error-tracking) | 1 env, 3 deps, 3 imports, 2 env refs | — |
+| **Vercel Analytics** | analytics | web | ? | Used in 1 file across web · Added in an AI-assisted commit (Claude) on 2026-04-09 · Overlaps with PostHog in acme (analytics) | 1 import, 1 dep | — |
 
-## ✅ Keep — in use (5)
+## ✅ Keep — in use (4)
 
 | Integration | Category | Where | Cost | Why | Evidence | Owner |
 |---|---|---|---|---|---|---|
-| **OpenAI** | ai | api, worker | $640/mo | Used in 2 files across api, worker | 1 env, 2 deps, 3 imports | ai-team |
-| **Stripe** | payments | api, web | $420/mo | Used in 2 files across api, web | 2 envs, 2 deps, 2 imports, 2 env refs | payments |
-| **Datadog** | apm | api | $310/mo | Used in 1 file across api | 1 dep, 1 import | platform |
-| **AWS S3** | storage | worker | $14/mo | Used in 1 file across worker · Code using it untouched for 726 days | 1 import | platform |
-| **ParcelPartner** | other | api | ? | Used in 1 file across api · Code using it untouched for 651 days | 1 host | — |
+| **AWS S3** | storage | worker | ? | Used in 1 file across worker · Code using it untouched for 726 days | 1 import | — |
+| **Datadog** | apm | api | ? | Used in 1 file across api | 1 dep, 1 import | — |
+| **OpenAI** | ai | api, worker | ? | Used in 2 files across api, worker | 1 env, 2 deps, 3 imports | — |
+| **Stripe** | payments | api, web | ? | Used in 2 files across api, web | 2 envs, 2 deps, 2 imports, 2 env refs | — |
+
+## Unknown external domains
+
+Referenced in code but not in the vendor catalog. Add the real integrations under `vendors:` in `stackprune.yml`.
+
+| Domain | Files | Where | Hosts |
+|---|---|---|---|
+| parcelpartner.io | 1 | api | api.parcelpartner.io |
 
 <sub>Generated by [stackprune](https://github.com/YlldritQ/stackprune) on 2026-11-16</sub>

diff --git a/README.md b/README.md
@@ -105,6 +105,12 @@ npx stackprune init ~/code/acme   # writes stackprune.yml
 ```yaml
 currency: EUR
 
+# Optional: name your apps and list their repos (relative to this file). Running
+# `stackprune` with no paths then audits all of them; overlaps are judged per app.
+apps:
+  shop: [../shop-api, ../shop-web, ../shop-mobile]
+  backoffice: [../admin]
+
 integrations:
   stripe:   { owner: payments, purpose: Checkout and subscriptions, cost: 420 }
   sentry:   { owner: platform, cost: { monthly: 89, plan: Team } }
